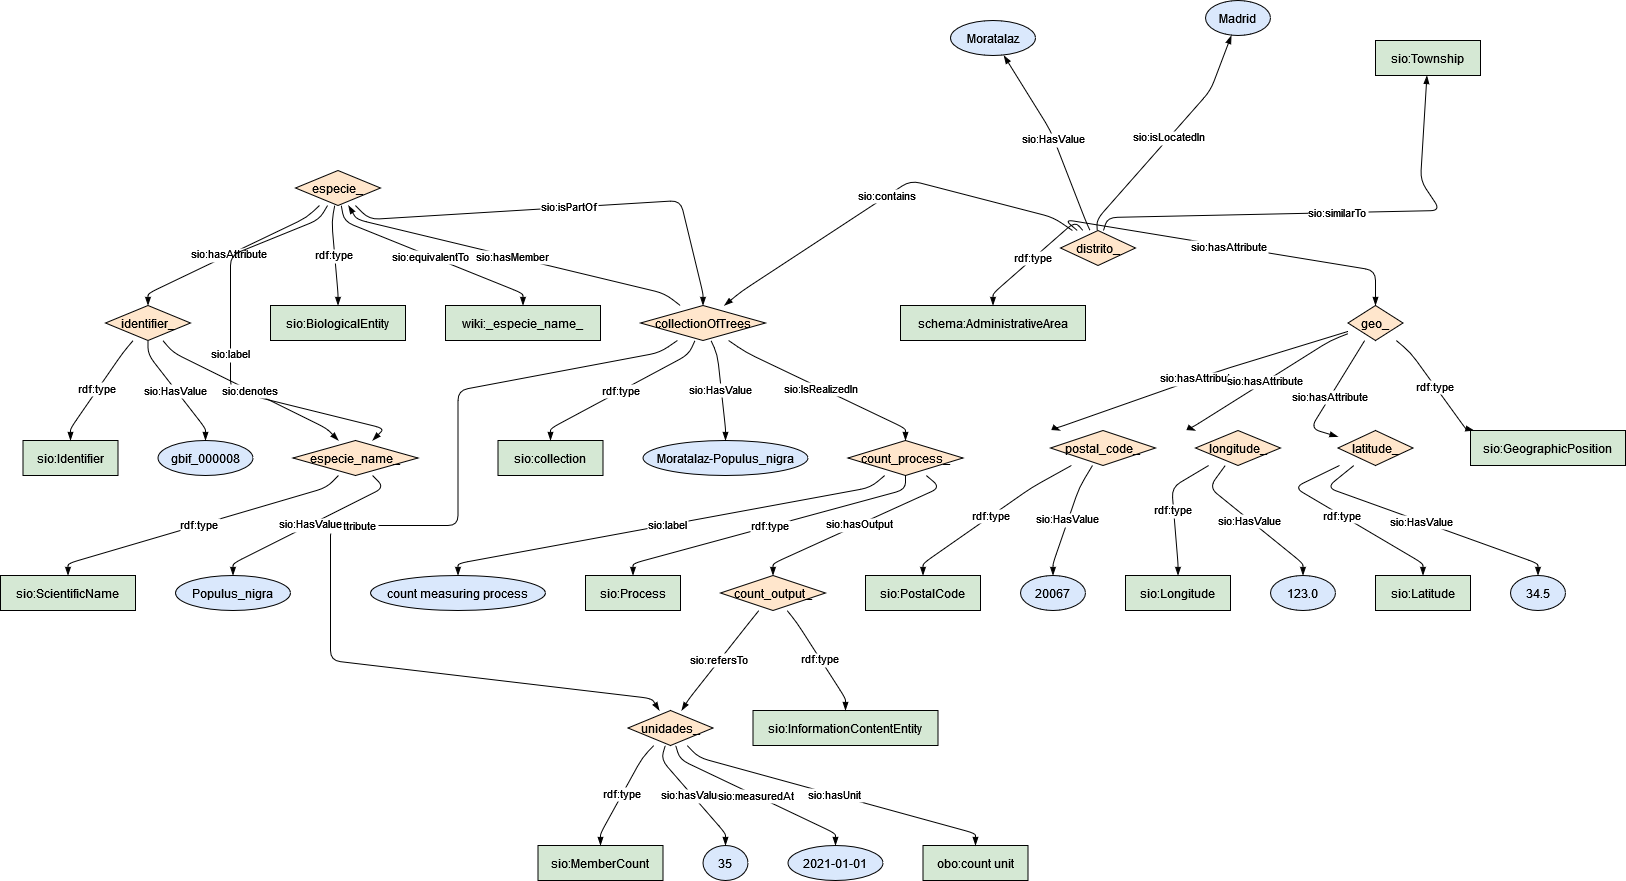
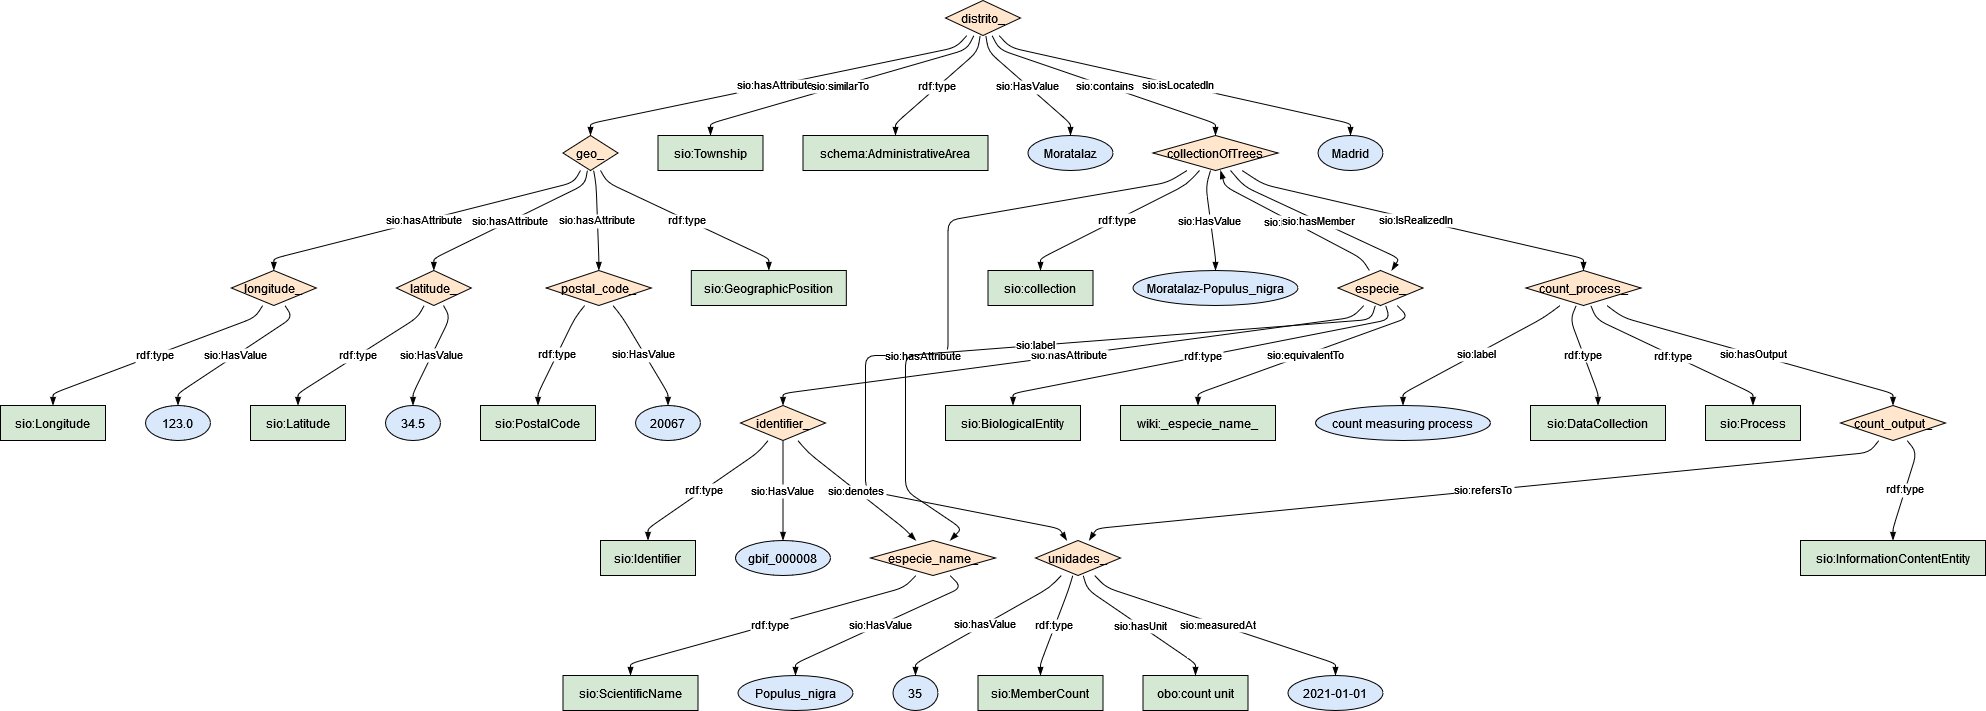
added notebook 3

diff --git a/notebooks/3-EstadoParquesHistoricoSingularesForestales.md b/notebooks/3-EstadoParquesHistoricoSingularesForestales.md
@@ -1,6 +1,6 @@
 ### Semantic model figure
 
-This module describes the data elements related to tree inventory dataset.
+This module describes the data elements related to [tree inventory dataset](https://github.com/carlosug/opengov-kg/blob/main/etl/data/inputs/preprocessing). It covers the ESGREEN level of Estado Parques Historico Singulares Forestales. The data specification can e found on the Open Data Madrid Platform at this [link](https://datos.madrid.es/FWProjects/egob/Catalogo/MedioAmbiente/ZonasVerdes/Ficheros/Informaci%C3%B3n%20de%20estado%20del%20arbolado%20en%20parques%20hist%C3%B3ricos%20singulares%20y%20forestales%20en%202019.pdf).
 
 
 <p align="center">
@@ -14,7 +14,6 @@ This module describes the data elements related to tree inventory dataset.
 ### Example RDF (turtle):
 
 ```ttl
-
 @prefix : <http://purl.org/ejp-rd/cde/v020/example-rdf/> .
 @prefix obo: <http://purl.obolibrary.org/obo/> . 
 @prefix sio: <http://semanticscience.org/resource/> .
@@ -37,7 +36,7 @@ This module describes the data elements related to tree inventory dataset.
     sio:hasMember :especie_ ;
     sio:measuredAt "2021"^^xsd:date .
 
-:stats_process_ a sio:Process ;
+:stats_process_ a sio:Process, sio:DataCollection ;
     sio:label "stats measuring process"^^xsd:string ;
     sio:hasOutput :stats_output_ .
 
@@ -56,7 +55,7 @@ This module describes the data elements related to tree inventory dataset.
     sio:hasValue "35"^^xsd:integer ;
     sio:hasUnit obo:UO_0000189 .
 
-:age_ a sio:LifeStatus ;
+:age_ a sio:LifeStatus, sio:attribute ;
     sio:hasQuality "joven" ;
     sio:hasValue "joven"^^xsd:string .
 

diff --git a/notebooks/2-ArboladoZonasVerdesDistritosCalles.md b/notebooks/2-ArboladoZonasVerdesDistritosCalles.md
@@ -1,6 +1,6 @@
 ### Semantic model figure
 
-This module describes the data elements related to tree inventory dataset.
+This module describes the data elements related to [tree inventory dataset](https://github.com/carlosug/opengov-kg/blob/main/etl/data/inputs/preprocessing). It covers the ESGREEN level of Arbolado Zonas Verdes Distritos y Calles. The data specification can e found on the Open Data Madrid Platform at this [link](https://datos.madrid.es/portal/site/egob/menuitem.c05c1f754a33a9fbe4b2e4b284f1a5a0/?vgnextoid=0101507f09436610VgnVCM2000001f4a900aRCRD&vgnextchannel=374512b9ace9f310VgnVCM100000171f5a0aRCRD&vgnextfmt=default).
 
 <p align="center">
     <a href="../images/arbolado_2.png" target="_blank">
@@ -61,14 +61,14 @@ This module describes the data elements related to tree inventory dataset.
     sio:equivalentTo wiki:_especie_name_ ;
     sio:isPartOf :collectionOfTrees .
 
-:identifier_ a sio:Identifier ; # from external dataset.
+:identifier_ a sio:Identifier ; # from external dataset 
     sio:denotes :especie_name_ ;
     sio:HasValue "gbif_000008"^^xsd:string .
 
 :especie_name_ a sio:ScientificName ;
     sio:HasValue "Populus_nigra"^^xsd:string .
 
-:count_process_ a sio:Process ;
+:count_process_ a sio:Process, sio:DataCollection ;
     sio:label "count measuring process"^^xsd:string ;
     sio:hasOutput :count_output_ .
 
